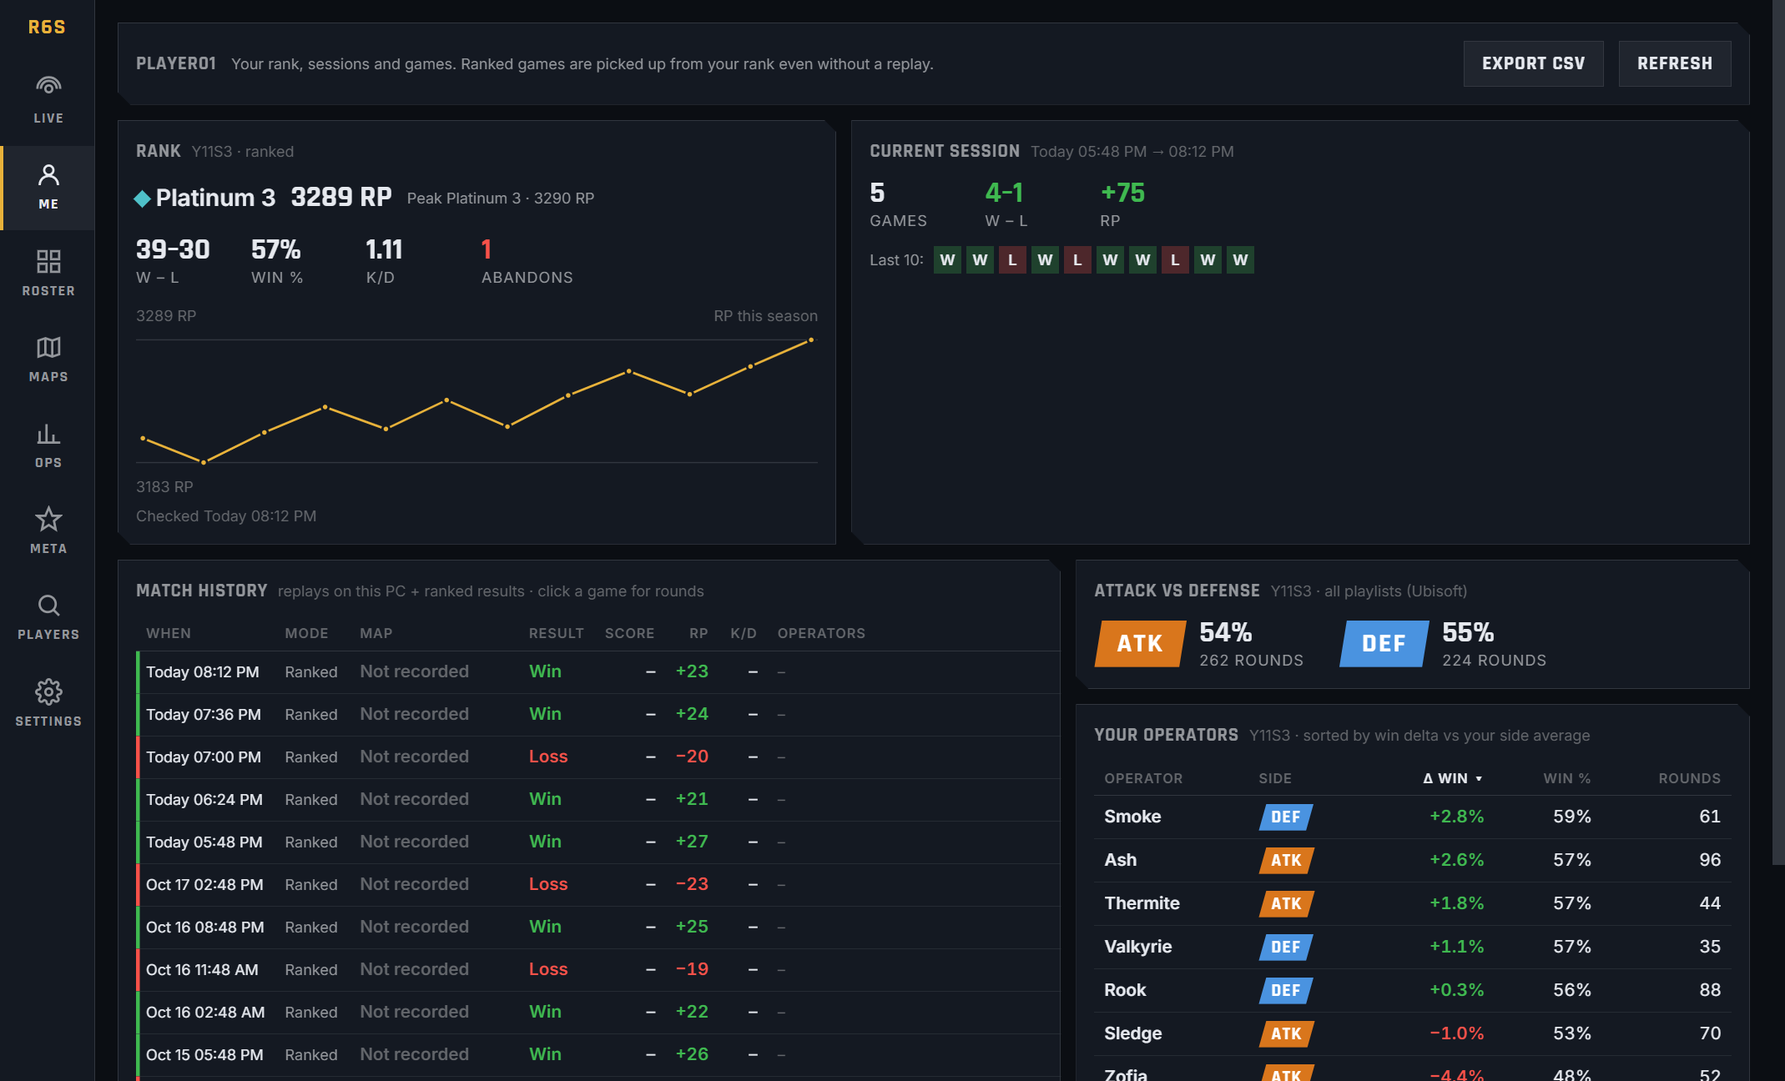
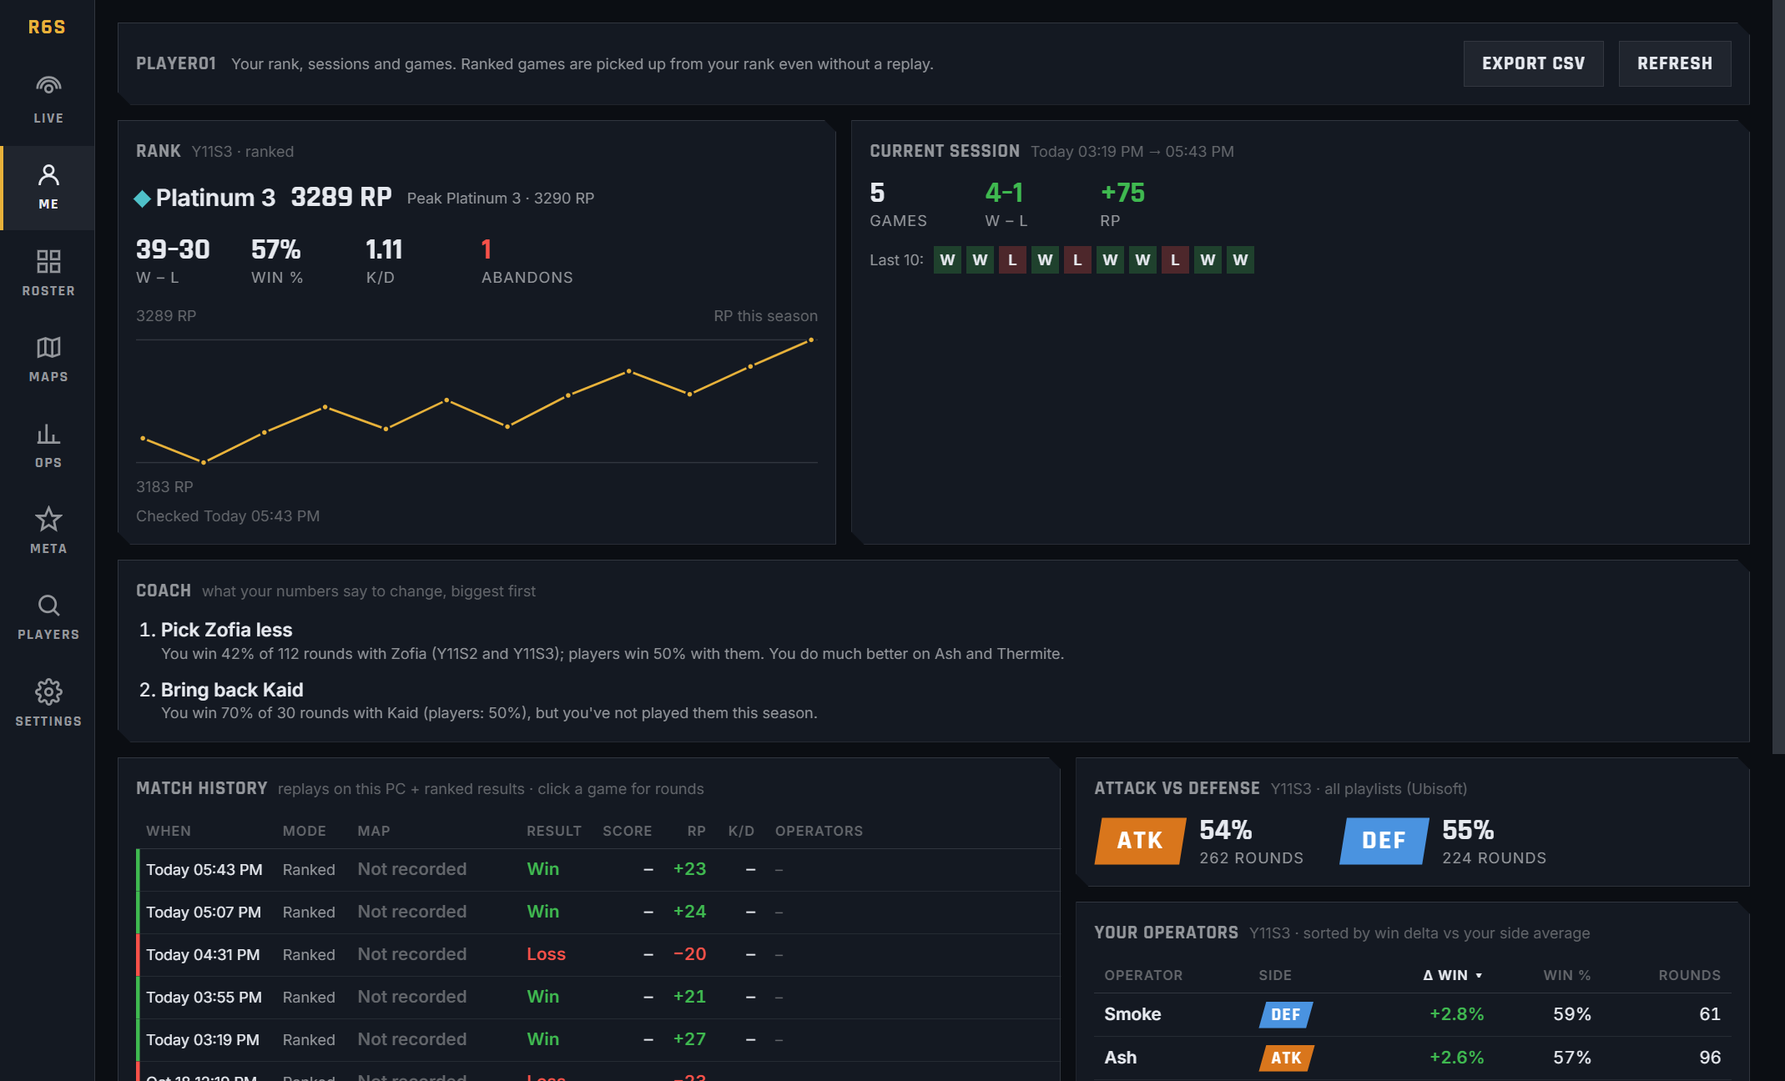
v0.6.20: Coach panel on the Me tab
Plain-language tips from your own numbers: weak side, operators to drop
(vs players at your rank, small samples shrunk toward the peer rate),
strong operators gone unplayed, survival impact, worst map, tilt.

diff --git a/src/shared/coach.ts b/src/shared/coach.ts
@@ -1,0 +1,156 @@
+// Coach: turns your own numbers into a few plain-language tips (what to change, what to keep doing).
+// Pure and unit-tested. Every tip carries its evidence; small samples are shrunk toward the
+// players-at-your-rank average so a lucky 5-round streak never becomes advice.
+import type { MatchRow } from './ipc'
+import type { Side } from './types'
+
+export interface CoachOp { opKey: string; name: string; side: Side; rounds: number; wins: number }
+export interface CoachTip {
+  id: string
+  kind: 'side' | 'drop' | 'play' | 'survive' | 'map' | 'tilt'
+  title: string
+  detail: string
+  /** Higher = more rounds at stake; tips are sorted by it. */
+  weight: number
+}
+export interface CoachInput {
+  season: string
+  prevSeason: string
+  /** Your operators this season and last season. */
+  ops: CoachOp[]
+  prevOps: CoachOp[]
+  /** Win rate per operator for players at your rank (crowd data), if known. */
+  peers: Map<string, { rounds: number; wins: number }>
+  /** "Gold players", "players" when no rank. */
+  peerLabel: string
+  matches: MatchRow[]
+  maps: { mapKey: string; matches: number; wins: number; rounds: number; roundWins: number }[]
+  mapName: (key: string) => string
+}
+
+const PRIOR = 20 // rounds of "average player" mixed into every operator rate
+const pct = (x: number) => `${Math.round(x * 100)}%`
+const SIDE: Record<Side, string> = { attack: 'attack', defense: 'defense' }
+
+function sideRates(ops: CoachOp[]): Record<Side, { rounds: number; wins: number }> {
+  const s = { attack: { rounds: 0, wins: 0 }, defense: { rounds: 0, wins: 0 } }
+  for (const o of ops) { s[o.side].rounds += o.rounds; s[o.side].wins += o.wins }
+  return s
+}
+
+export function coach(inp: CoachInput): CoachTip[] {
+  const tips: CoachTip[] = []
+  const both = inp.prevSeason ? `${inp.prevSeason} and ${inp.season}` : inp.season
+
+  // 1. Weak side: the biggest, steadiest leak usually shows up as one side lagging the other.
+  const now = sideRates(inp.ops), before = sideRates(inp.prevOps)
+  if (now.attack.rounds >= 30 && now.defense.rounds >= 30) {
+    const a = now.attack.wins / now.attack.rounds, d = now.defense.wins / now.defense.rounds
+    const weak: Side = a < d ? 'attack' : 'defense', strong: Side = weak === 'attack' ? 'defense' : 'attack'
+    const gap = Math.abs(a - d)
+    if (gap >= 0.05) {
+      const pa = before[weak].rounds >= 30 && before[strong].rounds >= 30 ? before[weak].wins / before[weak].rounds : null
+      const pd = pa === null ? null : before[strong].wins / before[strong].rounds
+      const again = pa !== null && pd !== null && pa < pd
+      tips.push({
+        id: 'side', kind: 'side', weight: gap * Math.sqrt(now[weak].rounds) * 4,
+        title: `${weak === 'attack' ? 'Attack' : 'Defense'} is where you lose rounds`,
+        detail: `You win ${pct(now[weak].wins / now[weak].rounds)} of ${SIDE[weak]} rounds and ${pct(now[strong].wins / now[strong].rounds)} on ${SIDE[strong]} this season` +
+          (again ? `, and it was the same last season (${pct(pa)} vs ${pct(pd)}).` : '.') +
+          (weak === 'attack'
+            ? ' Attack rounds are usually lost before the plant: drone more, push together with a teammate, and play for the plant instead of chasing kills.'
+            : ' Defense rounds are usually lost by being caught out of position: reinforce early, hold one angle at a time, and fall back to site when you lose intel.')
+      })
+    }
+  }
+
+  // 2. Operators: compare each one with players at your rank, over this and last season together.
+  const merged = new Map<string, CoachOp & { now: number }>()
+  for (const [list, cur] of [[inp.prevOps, 0], [inp.ops, 1]] as const) {
+    for (const o of list) {
+      const m = merged.get(o.opKey) ?? { ...o, rounds: 0, wins: 0, now: 0 }
+      m.rounds += o.rounds; m.wins += o.wins; if (cur) m.now += o.rounds
+      merged.set(o.opKey, m)
+    }
+  }
+  const peerRate = (key: string) => {
+    const p = inp.peers.get(key)
+    return p && p.rounds >= 50 ? p.wins / p.rounds : 0.5
+  }
+  const rated = [...merged.values()].map((o) => {
+    const peer = peerRate(o.opKey)
+    const shrunk = (o.wins + peer * PRIOR) / (o.rounds + PRIOR)
+    return { ...o, peer, delta: shrunk - peer }
+  })
+  const sideNow = (s: Side) => Math.max(1, now[s].rounds)
+  const strong = rated.filter((o) => o.rounds >= 10 && o.delta >= 0.04).sort((x, y) => y.delta * Math.sqrt(y.rounds) - x.delta * Math.sqrt(x.rounds))
+
+  for (const o of rated.filter((o) => o.rounds >= 15 && o.delta <= -0.04).sort((x, y) => x.delta * Math.sqrt(x.rounds) - y.delta * Math.sqrt(y.rounds)).slice(0, 2)) {
+    const alt = strong.filter((s) => s.side === o.side).slice(0, 2).map((s) => s.name)
+    tips.push({
+      id: `drop:${o.opKey}`, kind: 'drop', weight: -o.delta * Math.sqrt(o.rounds) * 4,
+      title: `Pick ${o.name} less`,
+      detail: `You win ${pct(o.wins / o.rounds)} of ${o.rounds} rounds with ${o.name} (${both}); ${inp.peerLabel} win ${pct(o.peer)} with them.` +
+        (alt.length ? ` You do much better on ${alt.join(' and ')}.` : '')
+    })
+  }
+
+  for (const o of strong.filter((o) => o.now / sideNow(o.side) < 0.06).slice(0, 2)) {
+    tips.push({
+      id: `play:${o.opKey}`, kind: 'play', weight: o.delta * Math.sqrt(o.rounds) * 3,
+      title: `Bring back ${o.name}`,
+      detail: `You win ${pct(o.wins / o.rounds)} of ${o.rounds} rounds with ${o.name} (${inp.peerLabel}: ${pct(o.peer)}), but you've ${o.now ? `only played them ${o.now} rounds` : 'not played them'} this season.`
+    })
+  }
+
+  // 3. Survival (replays): how much your team depends on you staying alive.
+  const rounds = inp.matches.filter((m) => m.kind !== 'Custom').flatMap((m) => m.rounds)
+  if (rounds.length >= 20) {
+    const died = rounds.filter((r) => r.died), lived = rounds.filter((r) => !r.died)
+    const rate = (rs: typeof rounds) => rs.filter((r) => r.won).length / Math.max(1, rs.length)
+    const blank = died.filter((r) => r.kills === 0).length / Math.max(1, died.length)
+    if (died.length >= 8 && lived.length >= 8 && rate(lived) - rate(died) >= 0.2) {
+      tips.push({
+        id: 'survive', kind: 'survive', weight: (rate(lived) - rate(died)) * Math.sqrt(rounds.length) * 2 * (died.length / rounds.length),
+        title: 'Staying alive wins your rounds',
+        detail: `Your team wins ${pct(rate(lived))} of rounds when you survive and ${pct(rate(died))} when you die. You die in ${pct(died.length / rounds.length)} of rounds, and ${pct(blank)} of those deaths come before you get a kill. Take fewer early duels: let a teammate swing first so you can trade.`
+      })
+    }
+  }
+
+  // 4. Maps (replays): one clearly bad map is worth banning.
+  const ok = inp.maps.filter((m) => m.matches >= 2 && m.rounds >= 12)
+  const total = ok.reduce((n, m) => n + m.rounds, 0), totalWins = ok.reduce((n, m) => n + m.roundWins, 0)
+  if (ok.length >= 3 && total) {
+    const avg = totalWins / total
+    const worst = ok.map((m) => ({ m, d: (m.roundWins + avg * 10) / (m.rounds + 10) - avg })).sort((a, b) => a.d - b.d)[0]!
+    if (worst.d <= -0.08) {
+      tips.push({
+        id: `map:${worst.m.mapKey}`, kind: 'map', weight: -worst.d * Math.sqrt(worst.m.rounds) * 3,
+        title: `Ban ${inp.mapName(worst.m.mapKey)} when you can`,
+        detail: `You win ${pct(worst.m.roundWins / worst.m.rounds)} of rounds on ${inp.mapName(worst.m.mapKey)} (${worst.m.wins}–${worst.m.matches - worst.m.wins} in games) against ${pct(avg)} on your other maps.`
+      })
+    }
+  }
+
+  // 5. Tilt: how you do right after two losses in a row (same sitting, under 3 h apart).
+  const games = inp.matches.filter((m) => !m.games && (m.result === 'win' || m.result === 'loss')).slice().reverse()
+  if (games.length >= 15) {
+    let after = 0, afterWins = 0
+    for (let i = 2; i < games.length; i++) {
+      const [a, b, c] = [games[i - 2]!, games[i - 1]!, games[i]!]
+      if (Date.parse(c.at) - Date.parse(a.at) > 3 * 3600_000) continue
+      if (a.result === 'loss' && b.result === 'loss') { after++; afterWins += +(c.result === 'win') }
+    }
+    const overall = games.filter((g) => g.result === 'win').length / games.length
+    if (after >= 6 && afterWins / after <= overall - 0.1) {
+      tips.push({
+        id: 'tilt', kind: 'tilt', weight: (overall - afterWins / after) * Math.sqrt(after) * 3,
+        title: 'Take a break after two losses',
+        detail: `After losing two games in a row you win ${pct(afterWins / after)} of the next game (${after} times), against ${pct(overall)} overall.`
+      })
+    }
+  }
+
+  return tips.sort((a, b) => b.weight - a.weight).slice(0, 6)
+}

diff --git a/src/main/performance.ts b/src/main/performance.ts
@@ -4,9 +4,11 @@
 import type { RankSnapshot } from './db'
 import type { MatchRow, Performance, SessionStats } from '../shared/ipc'
 import type { RoundRecord, Side } from '../shared/types'
-import { operatorById, operatorByKey } from '../shared/catalog'
-import { seasonCodeToId } from '../shared/ranks'
-import { currentSeason, type Ctx } from './services'
+import { mapName, operatorById, operatorByKey } from '../shared/catalog'
+import { coach } from '../shared/coach'
+import { bandOf } from '../shared/crowd'
+import { seasonCodeToId, seasonIdToCode } from '../shared/ranks'
+import { currentSeason, globalOps, type Ctx } from './services'
 import { sidePredictionAccuracy } from './live/state'
 
 const HOUR = 3600_000
@@ -106,17 +108,19 @@ export function sessionOf(matches: MatchRow[], now: number): SessionStats | null
 export function performance(ctx: Ctx, loggedIn: boolean, now = Date.now()): Performance {
   const season = currentSeason(ctx)
   const me = ctx.me()
-  const empty: Performance = { me: null, season, rank: null, rpHistory: [], pastRanks: [], sideAccuracy: { correct: 0, total: 0 }, session: null, mates: [], streak: null, matches: [], sides: { attack: { rounds: 0, wins: 0 }, defense: { rounds: 0, wins: 0 } }, ops: [], maps: [], loggedIn }
+  const empty: Performance = { me: null, season, rank: null, rpHistory: [], pastRanks: [], sideAccuracy: { correct: 0, total: 0 }, session: null, mates: [], streak: null, matches: [], sides: { attack: { rounds: 0, wins: 0 }, defense: { rounds: 0, wins: 0 } }, ops: [], maps: [], coach: [], loggedIn }
   if (!me) return empty
   const snaps = ctx.db.rankSnapshots(me, 'ranked', seasonCodeToId(season))
   const recorded = ctx.db.recentMatches(60).map((m) => ctx.db.roundsOfMatch(m.matchId))
   const replays = recorded.map((rs) => replayMatch(rs, me)).filter((m): m is MatchRow => !!m)
   const matches = mergeHistory(replays, snaps)
   const last = snaps[snaps.length - 1]
-  const ops = [...ctx.db.apiOpAggs({ profileId: me, season })].flatMap(([key, a]) => {
+  const opsOf = (s: string) => [...ctx.db.apiOpAggs({ profileId: me, season: s })].flatMap(([key, a]) => {
     const op = operatorByKey(key)
     return op && a.rounds ? [{ opKey: key, name: op.name, side: op.side, rounds: a.rounds, wins: a.wins }] : []
   })
+  const ops = opsOf(season)
+  const prevSeason = seasonIdToCode(seasonCodeToId(season) - 1)
   const sides = { attack: { rounds: 0, wins: 0 }, defense: { rounds: 0, wins: 0 } }
   for (const o of ops) { sides[o.side].rounds += o.rounds; sides[o.side].wins += o.wins }
   // Map breakdown from replays; custom games only count when there is nothing else.
@@ -127,14 +131,22 @@ export function performance(ctx: Ctx, loggedIn: boolean, now = Date.now()): Perf
     a.matches++; a.wins += +(m.result === 'win'); a.rounds += m.rounds.length; a.roundWins += m.rounds.filter((r) => r.won).length
     maps.set(m.mapKey!, a)
   }
+  // Coach compares you with players at your rank (crowd data), else with everyone.
+  const band = last?.rank ? bandOf(last.rank) : 0
+  const crowd = ctx.crowd?.() ?? null
+  const banded = band ? globalOps(crowd, band) : new Map()
+  const peers = banded.size ? banded : globalOps(crowd)
+  const peerLabel = banded.size ? `${band >= 8 ? 'Champion' : ['', 'Copper', 'Bronze', 'Silver', 'Gold', 'Platinum', 'Emerald', 'Diamond'][band]} players` : 'players'
+  const mapRows = [...maps.values()]
   return {
+    coach: coach({ season, prevSeason, ops, prevOps: opsOf(prevSeason), peers, peerLabel, matches, maps: mapRows, mapName }),
     mates: matesOf(recorded, me), streak: streakOf(matches),
     me: { profileId: me, name: ctx.db.playerName(me) ?? 'You' }, season,
     rank: last ? { rank: last.rank, rankPoints: last.rankPoints, maxRank: last.maxRank, maxRankPoints: last.maxRankPoints, wins: last.wins, losses: last.losses, abandons: last.abandons, kills: last.kills, deaths: last.deaths, at: last.fetchedAt } : null,
     rpHistory: changes(snaps).map((s) => ({ at: s.fetchedAt, rp: s.rankPoints, rank: s.rank })),
     sideAccuracy: sidePredictionAccuracy(ctx.db.sideSequences()),
     pastRanks: ctx.db.seasonRanks(me).filter((r) => r.season !== season && r.rank > 0 && r.rank <= 40).sort((a, b) => seasonCodeToId(b.season) - seasonCodeToId(a.season)),
-    session: sessionOf(matches, now), matches, sides, ops, maps: [...maps.values()], loggedIn
+    session: sessionOf(matches, now), matches, sides, ops, maps: mapRows, loggedIn
   }
 }
 

diff --git a/test/coach.test.ts b/test/coach.test.ts
@@ -1,0 +1,57 @@
+import { describe, expect, it } from 'vitest'
+import { coach, type CoachInput, type CoachOp } from '../src/shared/coach'
+import type { MatchRow } from '../src/shared/ipc'
+
+const op = (opKey: string, side: CoachOp['side'], rounds: number, wins: number): CoachOp => ({ opKey, name: opKey[0]!.toUpperCase() + opKey.slice(1), side, rounds, wins })
+const peers = new Map([['kali', { rounds: 800, wins: 400 }], ['fuze', { rounds: 900, wins: 450 }], ['smoke', { rounds: 800, wins: 400 }], ['azami', { rounds: 900, wins: 450 }], ['glaz', { rounds: 400, wins: 200 }]])
+const base = (over: Partial<CoachInput> = {}): CoachInput => ({
+  season: 'Y11S3', prevSeason: 'Y11S2', ops: [], prevOps: [], peers, peerLabel: 'Gold players', matches: [], maps: [], mapName: (k) => k, ...over
+})
+
+describe('coach', () => {
+  it('says nothing without enough data', () => {
+    expect(coach(base({ ops: [op('kali', 'attack', 5, 1), op('azami', 'defense', 5, 4)] }))).toEqual([])
+  })
+
+  it('flags the weaker side, a losing operator with a better same-side pick, and a strong operator gone unplayed', () => {
+    const tips = coach(base({
+      ops: [op('kali', 'attack', 40, 15), op('fuze', 'attack', 40, 20), op('azami', 'defense', 60, 33)],
+      prevOps: [op('kali', 'attack', 50, 23), op('glaz', 'attack', 25, 17), op('fuze', 'attack', 60, 30), op('smoke', 'defense', 20, 15), op('azami', 'defense', 60, 33)]
+    }))
+    const ids = tips.map((t) => t.id)
+    expect(ids).toContain('side')
+    expect(tips.find((t) => t.id === 'side')!.title).toMatch(/^Attack/)
+    const drop = tips.find((t) => t.id === 'drop:kali')!
+    expect(drop.detail).toContain('42% of 90 rounds')
+    expect(drop.detail).toContain('Glaz')
+    expect(ids).toContain('play:smoke')
+    // Played and average: no tip either way.
+    expect(ids.some((i) => i.endsWith(':fuze') || i.endsWith(':azami'))).toBe(false)
+  })
+
+  it('does not turn a short lucky run into advice', () => {
+    const tips = coach(base({ prevOps: [op('glaz', 'attack', 6, 6)], ops: [op('kali', 'attack', 8, 1)] }))
+    expect(tips).toEqual([])
+  })
+
+  it('uses replays for survival, the worst map and tilt', () => {
+    const at = (h: number) => new Date(Date.UTC(2026, 9, 1) + h * 3600_000).toISOString()
+    const round = (won: boolean, died: boolean, kills = 0) => ({ round: 1, side: 'attack' as const, site: '', op: 'Fuze', opKey: 'fuze', won, kills, died })
+    // 21 games in 7-game sittings: W W W L L L L. Each game after two losses is lost (6 times); 43% overall.
+    const matches: MatchRow[] = Array.from({ length: 21 }, (_, i) => {
+      const result = i % 7 < 3 ? 'win' : 'loss'
+      const rounds = Array.from({ length: 6 }, (_, j) => (j < 2 ? round(true, false, 1) : round(false, true)))
+      return { id: `m${i}`, at: at(Math.floor(i / 7) * 24 + (i % 7) * 0.4), kind: 'Ranked', source: 'replay', mapKey: 'border', result, score: [2, 4], rpDelta: null, rankAfter: null, kills: 2, deaths: 4, headshots: 0, ops: ['Fuze'], rounds } as MatchRow
+    }).reverse()
+    const maps = [
+      { mapKey: 'border', matches: 4, wins: 0, rounds: 24, roundWins: 4 },
+      { mapKey: 'bank', matches: 4, wins: 3, rounds: 24, roundWins: 14 },
+      { mapKey: 'clubhouse', matches: 4, wins: 3, rounds: 24, roundWins: 14 }
+    ]
+    const tips = coach(base({ matches, maps }))
+    const ids = tips.map((t) => t.id)
+    expect(tips.find((t) => t.id === 'survive')!.detail).toContain('100% of rounds when you survive and 0% when you die')
+    expect(ids).toContain('map:border')
+    expect(tips.find((t) => t.id === 'tilt')!.detail).toContain('you win 0% of the next game (6 times), against 43% overall')
+  })
+})

diff --git a/src/main/demo.ts b/src/main/demo.ts
@@ -2,6 +2,7 @@
 import type { LobbyService } from './ubi/lobby'
 import type { Db } from './db'
 import type { PlayerCard } from '../shared/ipc'
+import { seasonCodeToId, seasonIdToCode } from '../shared/ranks'
 
 export function demoLobby(): LobbyService {
   const card = (profileId: string, name: string): PlayerCard => {
@@ -29,4 +30,8 @@ export function seedDemoHistory(db: Db, me: string, season: string, seasonId: nu
   })
   const ops: [string, number, number][] = [['ash', 96, 55], ['sledge', 70, 37], ['zofia', 52, 25], ['thermite', 44, 25], ['rook', 88, 49], ['smoke', 61, 36], ['mira', 40, 19], ['valkyrie', 35, 20]]
   db.saveApiOpStats(me, [season], ops.map(([opKey, rounds, w]) => ({ season, playlist: 'ranked', opKey, rounds, wins: w })), new Date(now).toISOString())
+  // Last season: a losing Zofia and a strong Kaid that went unplayed, so the Coach has something to say.
+  const prev = seasonIdToCode(seasonCodeToId(season) - 1)
+  const prevOps: [string, number, number][] = [['zofia', 60, 22], ['ash', 80, 45], ['kaid', 30, 21], ['rook', 70, 39]]
+  db.saveApiOpStats(me, [prev], prevOps.map(([opKey, rounds, w]) => ({ season: prev, playlist: 'ranked', opKey, rounds, wins: w })), new Date(now).toISOString())
 }

diff --git a/src/renderer/src/pages/Me.tsx b/src/renderer/src/pages/Me.tsx
@@ -242,6 +242,24 @@ function Mates({ p }: { p: Performance }) {
   )
 }
 
+/** Coach: a few tips from your own numbers, biggest first. */
+function Coach({ p }: { p: Performance }) {
+  if (!p.coach.length) return null
+  return (
+    <div className="panel">
+      <h2>Coach <span className="sub">what your numbers say to change, biggest first</span></h2>
+      <ol style={{ margin: 0, paddingLeft: 20, display: 'flex', flexDirection: 'column', gap: 10 }}>
+        {p.coach.map((t) => (
+          <li key={t.id}>
+            <div style={{ fontWeight: 600 }}>{t.title}</div>
+            <div className="small muted">{t.detail}</div>
+          </li>
+        ))}
+      </ol>
+    </div>
+  )
+}
+
 export function MePage() {
   const [p, reload] = useData(() => rs().performance(), [])
   if (!p) return null
@@ -259,6 +277,7 @@ export function MePage() {
         <RankCard p={p} />
         <SessionCard p={p} />
       </div>
+      <Coach p={p} />
       <div className="grid-2" style={{ gridTemplateColumns: 'minmax(0, 1.4fr) minmax(0, 1fr)' }}>
         <History matches={p.matches} />
         <div style={{ display: 'flex', flexDirection: 'column', gap: 'var(--gap)' }}><Breakdowns p={p} /></div>

diff --git a/src/shared/ipc.ts b/src/shared/ipc.ts
@@ -1,5 +1,6 @@
 // Main ↔ renderer contract. The preload exposes RsApi as window.rs; main registers a handler
 // for every method in API_METHODS (channel "rs:<method>"). Live updates arrive on "rs:live".
+import type { CoachTip } from './coach'
 import type { Agg, Side } from './types'
 import type { CatalogOverrides } from './catalog'
 import type { BanSuggestion } from './bans'
@@ -209,6 +210,8 @@ export interface Performance {
   maps: { mapKey: string; matches: number; wins: number; rounds: number; roundWins: number }[]
   /** Teammates you played at least 2 recorded (non-custom) matches with. */
   mates: { profileId: string; name: string; matches: number; wins: number }[]
+  /** Plain-language tips from your own numbers, most important first. */
+  coach: CoachTip[]
   /** Results of your latest games in a row, newest first (for the streak notice). */
   streak: { kind: 'win' | 'loss'; count: number; rp: number | null } | null
   loggedIn: boolean

diff --git a/docs/VERIFICATION-LOG.md b/docs/VERIFICATION-LOG.md
@@ -45,3 +45,4 @@ One row per finished phase or release: what was checked and the test results. Ad
 | 2026-10-19 | 7.1 | v0.1.1: Simulate last match (tested: phases loading→match→ended). v0.1.2: sign in via Ubisoft's official page (no password stored; Steam not offered by Ubisoft), session exchange + remember-me refresh + silent re-login + exchange-refused fallback (45 tests); real Electron self-test of both capture paths ✅ (`npm run selftest`); found + fixed ERR_FAILED when a login window opens right after another closes. Visible auto-update: 30-min checks, Settings panel, restart banner hidden during matches |
 | 2026-10-19 | 7 | NSIS + portable built locally; packaged exe passes smoke (node:sqlite, updater, tray in asar). Self-review found + fixed: first-run import blocking UI (now async), watcher never starting if MatchReplay created later. Pages enabled. CI/Release workflows written; GitHub Actions degraded today so runs queued |
 | 2026-10-20 | v0.6.19 | Real OCR frames from the main PC (Border, 2026-10-19): ban screen "BANA DEFENDER" (run-together OCR) gave side=defense while the owner was attacking, and the full BOMB SITES list gave a site. Fix: ban heading matched as a phrase; a site is only taken when exactly one is on screen. Regression tests use the real frame; they fail before the fix, and all 108 pass after it. Debug cap now trims by frame (40) instead of by file |
+| 2026-10-20 | v0.6.20 | Coach panel on the Me tab (src/shared/coach.ts): weak side, operators to drop (vs crowd at your rank, shrunk 20 rounds toward the peer rate, this + last season), strong ops gone unplayed, survival impact, worst map, tilt after two losses. 4 new unit tests (112 total). Run on the owner's real laptop data: attack 44% vs defense 49% (last season 47/59), Kali 42% of 91 rounds vs Gold 51%, Valkyrie 40% of 25 vs 53%, Smoke 75% of 20 and Kaid 67% of 21 unplayed this season. Screenshot 8-me.png checked |
